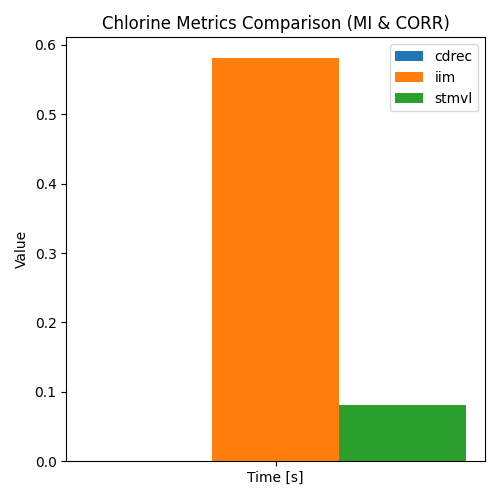
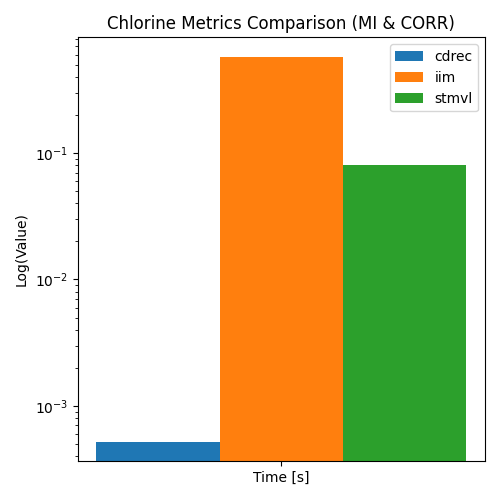
Experiment: Plotter update

diff --git a/Optimizer/plotter.py b/Optimizer/plotter.py
@@ -404,10 +404,12 @@ def plot_best_algorithm_by_dataset(optimized_file_paths: list) -> None:
             for metric_group in grouped_metrics:
                 plot_metrics(dataset, metric_used_for_optimization, algorithms_data, metric_group, width_factor=0.5)
             # Plot special metrics
-            plot_metrics(dataset, metric_used_for_optimization, algorithms_data, special_metrics, width_factor=0.5)
+            plot_metrics(dataset, metric_used_for_optimization, algorithms_data, special_metrics, width_factor=0.5,
+                         log_scale=True)
 
 
-def plot_metrics(dataset, metric_used_for_optimization, algorithms_data, metrics_to_use, width_factor=1.0):
+def plot_metrics(dataset, metric_used_for_optimization, algorithms_data, metrics_to_use, width_factor=1.0,
+                 log_scale=False):
     ind = np.arange(len(metrics_to_use))
     width = 0.35 / len(algorithms_data)
 
@@ -422,6 +424,11 @@ def plot_metrics(dataset, metric_used_for_optimization, algorithms_data, metrics
     ax.set_title(f'{dataset.title()} Metrics Comparison ({metric_used_for_optimization.upper().replace("_", " & ")})')
     ax.set_xticks(ind + width * (len(algorithms_data) - 1) / 2)
     ax.set_xticklabels(metric_display_labels)
+
+    if log_scale:
+        ax.set_yscale('log')
+        ax.set_ylabel('Log(Value)')  # Adjusting the y-label to reflect the log scale
+
     ax.legend()
 
     plt.tight_layout()
